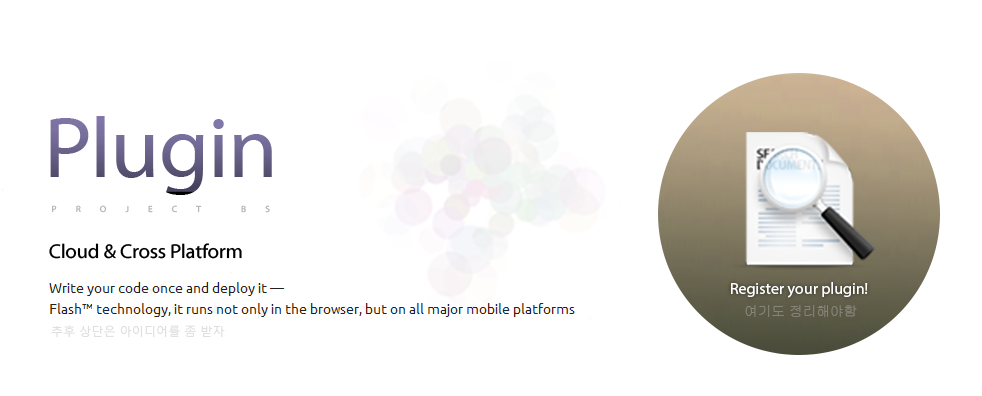
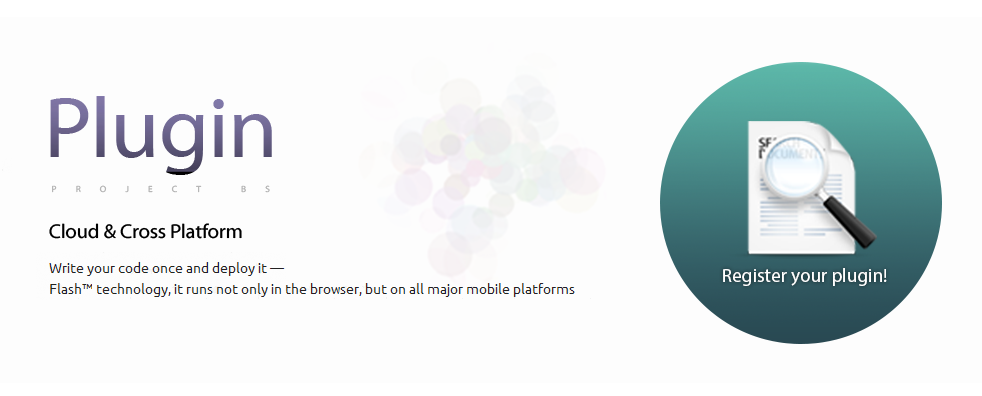
가입처리부분전까지 2차적용

diff --git a/noderoot/pluginjs/res/main.css b/noderoot/pluginjs/res/main.css
@@ -10,27 +10,27 @@ a:hover {text-decoration: underline;color: #bfbec3 }
 
 .top{width:100%;background:#757dae;height:45px;color:#fff}
 
-#logo{float:left;width:120px}
+#logo{float:left;width:100px}
 
-#menu{float:left;width:255px;margin-top:14px;font-size:13px;text-align:center}
+#menu{float:left;width:255px;margin-top:-14px;font-size:13px;text-align:center;text-shadow:1px 1px 0 #000000;}
 #menu a:link,#menu a:visited,#menu a:active{text-decoration:none;color:#fff;font-weight:bold}
 #menu a:hover{text-decoration:underline;color:#fff}
 
-#search{float:left;margin-top:10px}
-#searchTxt{width:155px;height:25px;line-height:20px;border:0;padding-left:7px;border-radius:7px;opacity:0.5;background:#4b506c;box-shadow:inset 0px 0px 85px rgba(0,0,0,.5)}
+#search{float:left;margin-top:8px}
+#searchTxt{width:155px;height:25px;line-height:20px;padding-left:7px;border:0;border-radius:7px;opacity:0.5;color:#fff;background:#4b506c;box-shadow:inset 0px 0px 85px rgba(0,0,0,.5)}
 #searchBtn{cursor:pointer;font-size:14px;line-height:20px;opacity:0.5}
 
-#personal{float:right;margin-top:10px;line-height:20px;width:385px}
+#personal{float:right;margin:8px;line-height:20px;width:405px}
 #personal div{float:left}
 #personal .batch{font-size:15px;}
-#Lemail{width:123px;height:25px;border:0;padding-left:7px;border-radius:7px;opacity:0.5;background:#4b506c;box-shadow:inset 0px 0px 85px rgba(0,0,0,.5)}
-#Lpw{width:70px;height:25px;border:0;padding-left:7px;border-radius:7px;opacity:0.5;background:#4b506c;box-shadow:inset 0px 0px 85px rgba(0,0,0,.5)}
+#Lemail{width:120px;height:25px;border:0;padding-left:7px;margin:0px 5px 0px 5px;border-radius:7px;opacity:0.5;color:#fff;background:#4b506c;box-shadow:inset 0px 0px 85px rgba(0,0,0,.5)}
+#Lpw{width:70px;height:25px;border:0;padding-left:7px;margin:0px 2px 0px 5px;border-radius:7px;opacity:0.5;color:#fff;background:#4b506c;box-shadow:inset 0px 0px 85px rgba(0,0,0,.5)}
 #Llogin{cursor:pointer;border:0;background:#BD84B1;color:#fff;}
 #Ljoin{cursor:pointer;border:0;background:none;color:#8ABDE0;font-weight:bold;overflow:hidden}
 #Lalert{display:none}
 
-#join{display:none;text-align:center;background:#659cad;color:#fff;font-size:15px;padding:10px 0}
-#Jemail,#Jpw,#Jpwc,#Jnick{margin:2px 0 2px 0;height:25px;border:0;padding-left:7px;border-radius:7px;opacity:0.5;background:#4b506c;box-shadow:inset 0px 0px 85px rgba(0,0,0,.5)}
+#join{height:150px;display:none;text-align:center;background:#659cad;background-image: linear-gradient(to bottom, #659CAD 0%, #FFFFFF 100%);color:#fff;font-size:15px;padding:30px 0}
+#Jemail,#Jpw,#Jpwc,#Jnick{width:400px;margin:2px 0 2px 0;height:25px;border:0;padding-left:7px;border-radius:7px;opacity:0.5;background:#4b506c;box-shadow:inset 0px 0px 85px rgba(0,0,0,.5)}
 #Jcancel,#Jjoin{font-size:40px;color:#fff;cursor:pointer}
 
 .middleVisual{width: 100%; height: 410px; }
@@ -51,9 +51,9 @@ a:hover {text-decoration: underline;color: #bfbec3 }
 .lists .list3 .ex{color: #bbbbbb; width: 300px; height: 52px}
 .lists .list3 .ex2{ color: #81acac;}
 
-.bottom{clear:both;height:50px;width:100%;background:#706E83; margin-top:50px}
-.copy{font-size: 12px; color: #ddd; float: left; margin-top:20px}
-.site{font-size: 11px; color: #ddd; float: right;margin-top:20px}
+.bottom{clear:both;height:28px;width:100%;background:#757dae; margin-top:50px}
+.copy{font-size: 12px; color: #fff; float: left; margin-top:8px}
+.site{font-size: 11px; color: #ddd; float: right;margin-top:8px}
 
 
 

diff --git a/noderoot/pluginjs/@index.html b/noderoot/pluginjs/@index.html
@@ -1,5 +1,9 @@
 <%IMPORT( '@head.html' );%>
-<div class="middleVisual"><img src="res/draft/index_visual.png"></div>
+<div class="middleVisual">
+    <div id="visualEffect"></div>
+    <img src="res/index/title.png" style="position:absolute; margin-top:100px;margin-left:60px">
+    <img src="res/index/register.png" style="position:absolute; margin-top:60px;margin-left:650px">
+</div>
 <div><img src="res/index/bs_ex1.png"></div>
 <div class="lists">
     <div style="float: left">
@@ -14,6 +18,49 @@
 
 <script>
     bs(function () {
+        var game = {
+            x:0, y:0, vx:0, vy:0, v:1, rv:.5, w:0, h:0, tcheck:0, div:{length:0},
+            term:bs.DETECT.device =='tablet' || bs.DETECT.device=='mobile' ? 100 : 10,
+            init:function(){
+                var i;
+                this.div.length = i = bs.DETECT.device =='tablet' || bs.DETECT.device=='mobile' ? 15 : 30;
+                while( i-- ) this.div[i] = bs.dom('<div></div>' ).$( 'position','absolute', 'visibility', 'hidden', '<', '#visualEffect', 'this' );
+                this.w =980,this.h = 400,this.x = this.w/2,this.y = this.h/2
+
+                bs.dom( '#visualEffect' ).$( 'top', 45, 'position', 'absolute', 'width', this.w, 'height', this.h, 'overflow', 'hidden', 'down', function( $e ){
+                    game.vx = ( $e.lx - game.x )*.1, game.vy = ($e.ly - game.y)*.1;
+                } );
+                bs.dom( '<div></div>' ).$( '@id', 'a', 'position', 'absolute', 'background', '#950',
+                        'left', 0, 'top', 0, 'width', 1, 'height', 1, 'border-radius',5,
+                        '<', '#visualEffect'
+                );
+            },
+            end:function( $target ){
+                game.div[game.div.length++] = $target.$('visibility', 'hidden', 'this');
+            },
+            ANI:function( $time ){
+                bs.dom('#a').$( 'left', this.x, 'top', this.y );
+
+                //particle
+                if( $time > this.tcheck ){
+                    this.tcheck = $time + this.term;
+                    var s = bs.$ex( 10, '~', 60 );
+                    var d = this.div.length ? this.div[--this.div.length] : bs.dom('<div></div>' ).$( 'position','absolute', '<', '#visualEffect', 'this' );
+                    d.$( 'visibility', 'visible', 'background', 'rgb('+bs.$ex(100,'~',200)+','+bs.$ex(100,'~',200)+','+bs.$ex(100, '~',200)+')',
+                            'width',1, 'height',1, 'border-radius', 10, 'left',this.x+ bs.$ex( -10, '~', 10 ) ,'top',this.y+bs.$ex( -10, '~', 10 ), 'opacity', 0.3
+                    );
+                    bs.ANI.tween( d,
+                            'left', bs.$ex( -300, '~', 300 ) + this.x, 'top', bs.$ex( -150, '~', 150 ) + this.y,
+                            'border-radius', s, 'width', s, 'height',s, 'opacity', 0,
+                            'time', bs.$ex( 2, '~f', 3 ), 'end', this.end
+                    );
+                }
+            }
+        };
+        game.init();
+        bs.ANI.ani( game );
+
+
         var titleData = [
             'Debuger 1.2',
             'Navigation Maker 2.0',

diff --git a/noderoot/pluginjs/@head.html b/noderoot/pluginjs/@head.html
@@ -28,8 +28,10 @@
 	<div class="contents">
 		<div id="logo"><img src="/res/draft/logo.jpg"></div>
 		<div id="menu">
-			<a href="/recent">Recent</a> &nbsp; <a href="/hot">Hot</a> &nbsp; 
+            <img src="/res/top/line.png" style="margin: 0px 12px 0px 5px">
+			<a href="/recent">Recent</a> &nbsp; <a href="/hot">Hot</a> &nbsp;
 			<a href="/updated">Updated</a> &nbsp; <a href="/catalog">Catalog</a>
+            <img src="/res/top/line.png" style="margin: 0px 10px 0px 12px">
 		</div>
 		<div id="search">
 			<input type="text" id="searchTxt" placeholder="search"/> &nbsp;
@@ -51,11 +53,13 @@
 		</div>
 	</div>
 </div>
-<div id="join">
-	<table border="0" cellpadding="0" cellspacing="0" style="width:400px;margin:0 auto;">
-	<tr><td rowspan="5" class="batch" style="width:100px;font-size:80px;">&#xf173;</td>
+<div id="join" >
+	<table border="0" cellpadding="0" cellspacing="0" style="width:750px;margin:0 auto;text-align:left;color:#000">
+	<!--<tr><td rowspan="5" class="batch" style="width:100px;font-size:80px;">&#xf173;</td>-->
+        <tr><td rowspan="6" style="padding-top:15px;width:150px"></td>
+        <tr><td colspan="2" height="50" ><img src="res/top/login/joinTitle.png"></tr>
 		<td style="width:70px">email</td><td style="width:130px"><input type="text" id="Jemail" placeholder="email"/></td>
-		<td rowspan="5" style="text-align:center;width:100px">
+		<td rowspan="6" style="text-align:center;">
 			<div class="batch" id="Jjoin">&#xf164;</div>
 			<div class="batch" id="Jcancel">&#xf165;</div>
 		</td>
